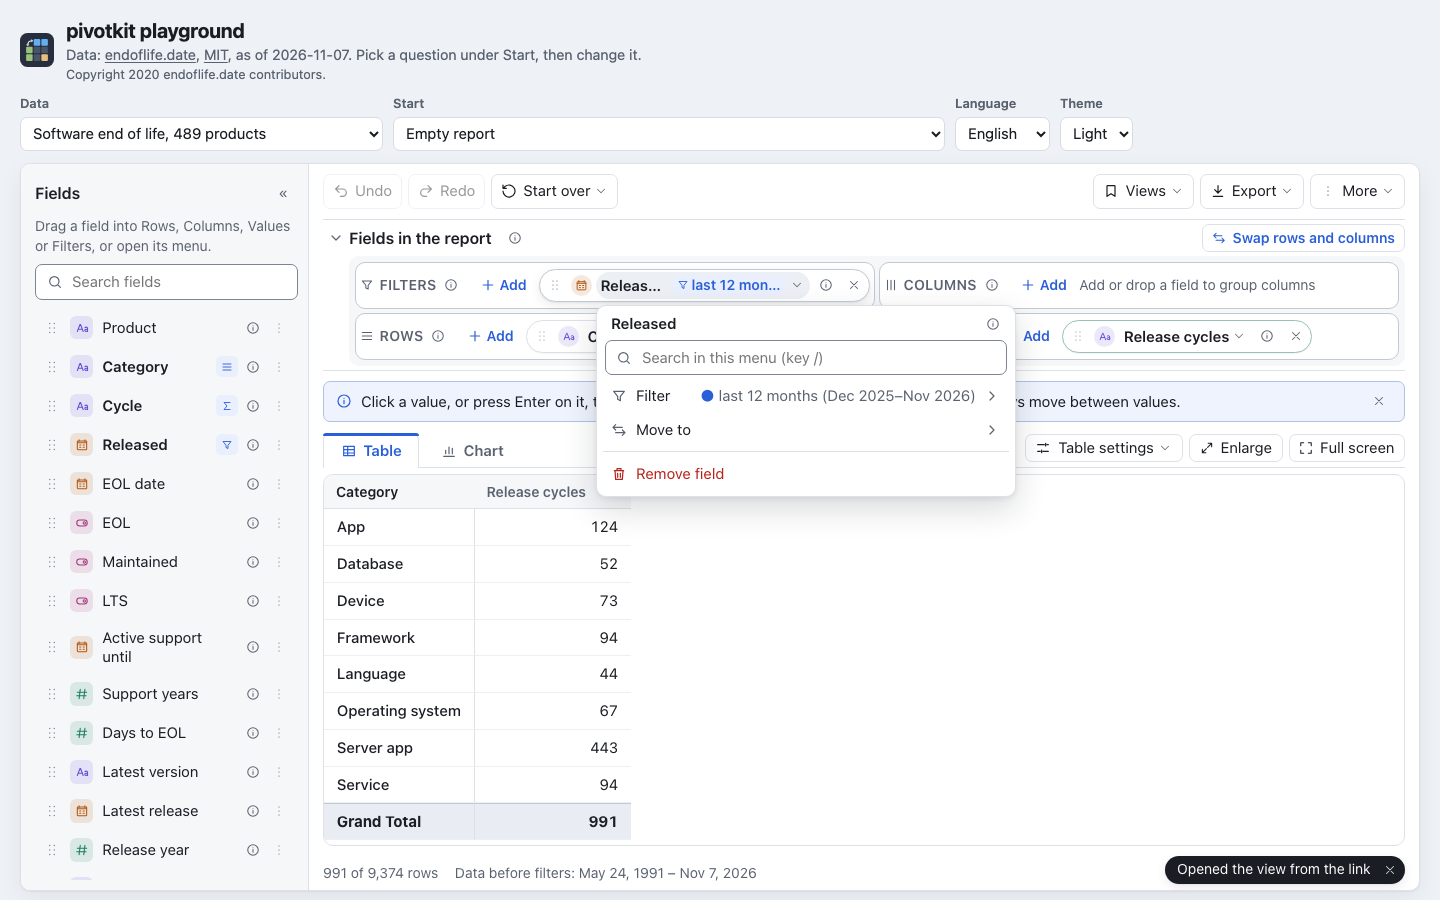
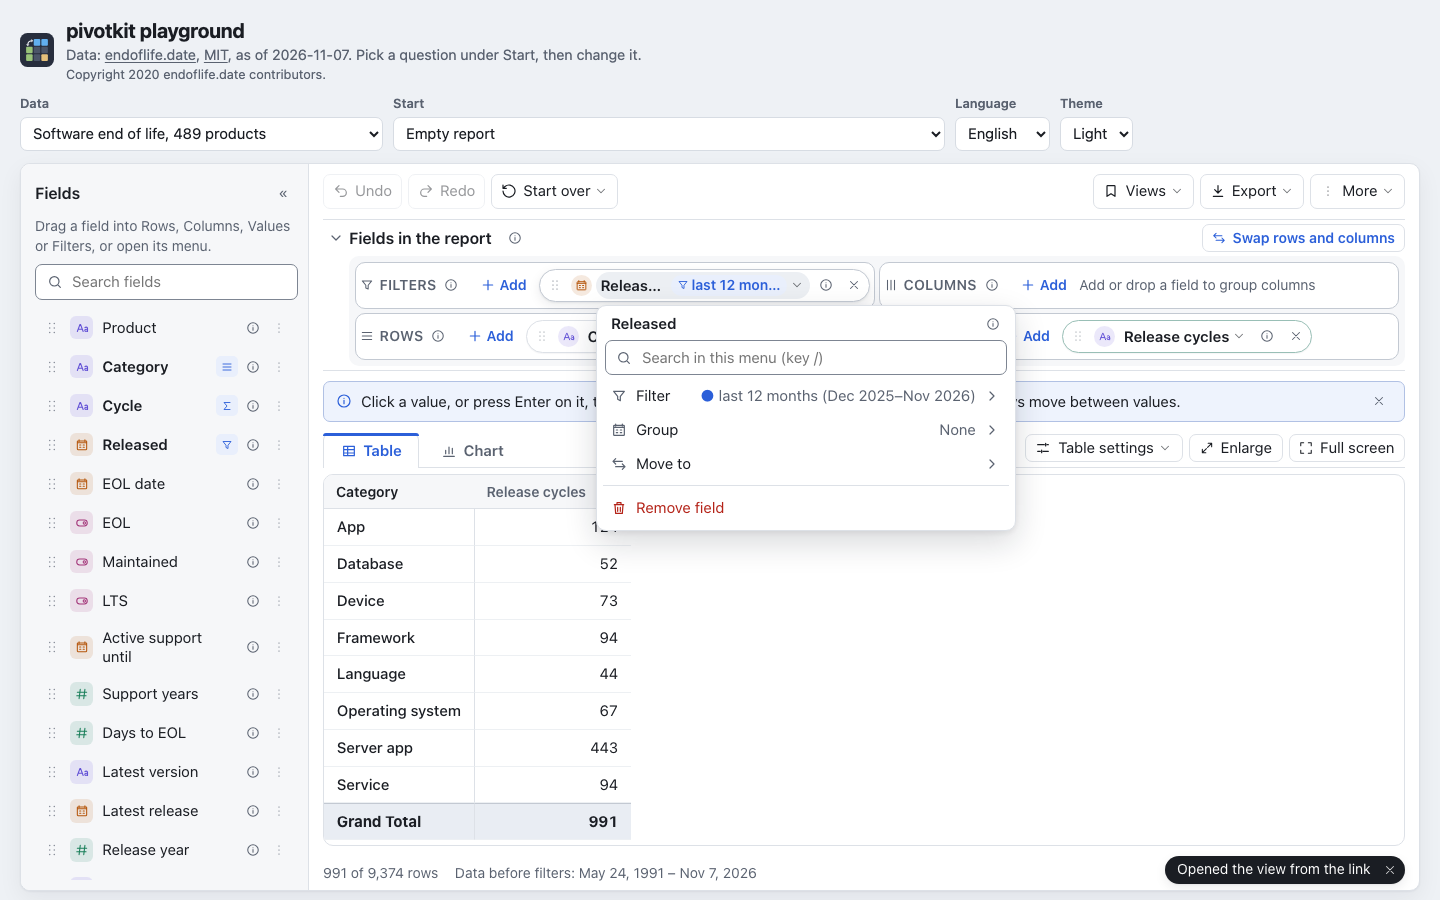
feat(react): a date in Filters can be grouped from its chip's menu
The Filters zone's chip menu of a date offers Group, the same topic as on Rows and Columns (one
groupTopic for both). A unit puts the grouping in the date's place among the Filters, with an
empty pick (groupField keeps the place). Docs: filters.md, the year steps in values.md, the
filter-zone screenshot.

Changed region(s): [[0.4062, 0.4667, 0.7188, 0.6222], [0.6562, 0.4667, 0.6875, 0.4978]]

diff --git a/packages/pivotkit-react/src/menu-topics.js b/packages/pivotkit-react/src/menu-topics.js
@@ -144,30 +144,7 @@ export function axisTopics({ view, zone, index, field, types, labels, locale, st
         filterTopic({ view, field, labels, locale, state, encoded })
     ];
     if (date) {
-        const stats = groupStats(encoded, source);
-        const span = stats?.span;
-        const dateLocale = dateDisplayLocale(view.formatting?.locale || locale);
-        const regroup = (unit) => () => {
-            const sourceName = fieldLabel(source, labels.core);
-            const grouped = unit ? groupingName(sourceName, unit, labels) : null;
-            return { view: groupField(view, field, unit, { name: grouped ?? undefined }).view, note: { step: "group", field: sourceName } };
-        };
-        // the field is replaced by its grouping (another chip): the menu closes
-        const unit = (u) => ({ id: `group-${u}`, text: labels.units[u] ?? u, hint: groupHint(encoded, source, u, dateLocale, labels, stats), checked: grouping?.by === u, closes: true, change: regroup(u) });
-        topics.push({
-            id: "group",
-            intro: span ? fill(plural(labels.groupDataRange, calendarDays(span), {lang: labels.lang, locale: dateLocale}), { range: dateRangeText(span, dateLocale) }) : undefined,
-            title: labels.groupTopic,
-            kind: "menu",
-            icon: "date",
-            state: grouping ? labels.units[grouping.by] ?? grouping.by : labels.groupNoneShort,
-            changed: Boolean(grouping),
-            groups: [
-                { title: labels.groupTimeline, choices: CATALOG.timelineUnits.map(unit) },
-                { title: labels.groupCyclic, choices: CATALOG.cyclicUnits.map(unit) },
-                { choices: [{ id: "group-none", text: labels.groupNone, checked: !grouping, closes: true, change: regroup(null) }] }
-            ]
-        });
+        topics.push(groupTopic({ view, field, source, labels, locale, encoded }));
     } else if (sourceType === "number") {
         const bins = grouping?.by === "bin" ? grouping : null;
         topics.push({ id: "bins", title: labels.bins, kind: "panel", icon: "number", state: bins ? fill(labels.binsState, { size: number(bins.size), start: number(bins.origin ?? 0) }) : labels.off, changed: Boolean(bins) });
@@ -264,13 +241,52 @@ export function filterTopic({ view, field, labels, locale, state, encoded }) {
 }
 
 /**
- * The topics of a field's menu in Filters (the whole report): Filter, Move to.
+ * The Group topic of a date: its units along the time line and over the years, each with what it
+ * makes of the data (groupHint), and None. A unit replaces the field with its grouping, in Rows,
+ * Columns or Filters, in the same place (another chip: the menu closes).
+ * @param {{ view: any, field: string, source: string, labels: any, locale: string, encoded?: any }} input
+ * @returns {Topic}
+ */
+function groupTopic({ view, field, source, labels, locale, encoded }) {
+    const grouping = groupingOf(view, field);
+    const stats = groupStats(encoded, source);
+    const span = stats?.span;
+    const dateLocale = dateDisplayLocale(view.formatting?.locale || locale);
+    const regroup = (unit) => () => {
+        const sourceName = fieldLabel(source, labels.core);
+        const grouped = unit ? groupingName(sourceName, unit, labels) : null;
+        return { view: groupField(view, field, unit, { name: grouped ?? undefined }).view, note: { step: "group", field: sourceName } };
+    };
+    const unit = (u) => ({ id: `group-${u}`, text: labels.units[u] ?? u, hint: groupHint(encoded, source, u, dateLocale, labels, stats), checked: grouping?.by === u, closes: true, change: regroup(u) });
+    return {
+        id: "group",
+        intro: span ? fill(plural(labels.groupDataRange, calendarDays(span), { lang: labels.lang, locale: dateLocale }), { range: dateRangeText(span, dateLocale) }) : undefined,
+        title: labels.groupTopic,
+        kind: "menu",
+        icon: "date",
+        state: grouping ? labels.units[grouping.by] ?? grouping.by : labels.groupNoneShort,
+        changed: Boolean(grouping),
+        groups: [
+            { title: labels.groupTimeline, choices: CATALOG.timelineUnits.map(unit) },
+            { title: labels.groupCyclic, choices: CATALOG.cyclicUnits.map(unit) },
+            { choices: [{ id: "group-none", text: labels.groupNone, checked: !grouping, closes: true, change: regroup(null) }] }
+        ]
+    };
+}
+
+/**
+ * The topics of a field's menu in Filters (the whole report): Filter, Group for a date, Move to.
  * @param {{ view: any, index: number, field: string, types: Map<string, string>, labels: any, locale: string, state?: any, encoded?: any }} input
  * @returns {Topic[]}
  */
 export function filterZoneTopics({ view, index, field, types, labels, locale, state, encoded }) {
-    const type = types.get(sourceOf(view, field).toLowerCase());
-    return [filterTopic({ view, field, labels, locale, state, encoded }), moveTopic(view, "filters", index, filterZoneFields(view).length, labels, fieldLabel(field, labels.core), type)];
+    const source = sourceOf(view, field);
+    const type = types.get(source.toLowerCase());
+    return [
+        filterTopic({ view, field, labels, locale, state, encoded }),
+        ...(type === "date" ? [groupTopic({ view, field, source, labels, locale, encoded })] : []),
+        moveTopic(view, "filters", index, filterZoneFields(view).length, labels, fieldLabel(field, labels.core), type)
+    ];
 }
 
 /**

diff --git a/packages/pivotkit-react/test/filter-rules.test.js b/packages/pivotkit-react/test/filter-rules.test.js
@@ -11,7 +11,7 @@ import { de as menuDe } from "../src/menu-labels-de.js";
 import { QUICK_UNITS, RULES_MAX, RULE_TYPES, filterState, keepsBlanks, rowsInRange, setRuleBlanks, setTopFilter, setLabelFilter, textOn, quickChoice, removeRules, resetFilter, ruleKind, ruleText, setAnchor, setItemFilter, setQuickRange, setRule, setYearsCombined, yearRules } from "../src/menu-ops.js";
 import { axisTopics, filterZoneTopics, searchEntries, searchHits } from "../src/menu-topics.js";
 import { compareText, itemRuleText, namedUntil, rangeShare, rangeText, relativeText } from "../src/names.js";
-import { addField, dateSpan, filtersOf, groupField } from "../src/view-ops.js";
+import { addField, dateSpan, filterZoneFields, filtersOf, groupField } from "../src/view-ops.js";
 
 const data = encode([
     { Region: "North", Units: 3, Price: 10, Released: "2019-05-01" },
@@ -315,13 +315,35 @@ test("search: quick choices with the count typed, a year compared, and the rules
     assert.equal(searchEntries(topics).some((e) => e.id.startsWith("quick-")), false);
 });
 
-test("the Filters zone's menu: Filter with its state, then Move to (no sort, grouping or Top items)", () => {
+test("the Filters zone's menu: Filter with its state, Group for a date, then Move to (no sort or Top items)", () => {
     const v = setQuickRange(addField(norm({}), "Released", "filters"), "Released", { unit: "year", count: 2 });
     const topics = filterZoneTopics({ view: v, index: 0, field: "Released", types, labels: MENU.en, locale: "en-US", state: { summary: null, rules: ["last 2 years"] }, encoded: data });
-    assert.deepEqual(topics.map((t) => t.id), ["filter", "move"]);
+    assert.deepEqual(topics.map((t) => t.id), ["filter", "group", "move"]);
     assert.equal(topics[0].state, "last 2 years");
     assert.equal(topics[0].changed, true);
-    assert.deepEqual(topics[1].groups[0].choices.map((c) => c.id), ["move-cols", "move-rows", "move-values"]);
+    assert.deepEqual(topics[2].groups[0].choices.map((c) => c.id), ["move-cols", "move-rows", "move-values"]);
+    // a text field in Filters: no Group
+    const text = filterZoneTopics({ view: addField(norm({}), "Region", "filters"), index: 0, field: "Region", types, labels: MENU.en, locale: "en-US", encoded: data });
+    assert.deepEqual(text.map((t) => t.id), ["filter", "move"]);
+});
+
+test("a date in Filters is grouped from its menu: the grouping takes its place among the Filters, its filter starts empty", () => {
+    let v = addField(addField(addField(norm({ rows: ["Region"] }), "Product", "filters"), "Released", "filters"), "Region", "filters");
+    v = setQuickRange(v, "Released", { unit: "year", count: 2 });
+    const at = (view) => filterZoneFields(view);
+    assert.deepEqual(at(v), ["Product", "Released", "Region"]);
+    const group = filterZoneTopics({ view: v, index: 1, field: "Released", types, labels: MENU.en, locale: "en-US", encoded: data }).find((t) => t.id === "group");
+    assert.equal(group.title, MENU.en.groupTopic);
+    assert.equal(group.state, MENU.en.groupNoneShort);
+    const year = group.groups.flatMap((g) => g.choices).find((c) => c.id === "group-year");
+    const { view: next, note } = year.change();
+    assert.deepEqual(at(next), ["Product", "Released by year", "Region"]);
+    assert.deepEqual(filtersOf(next, "Released", RULE_TYPES), []);
+    assert.equal(note.step, "group");
+    // grouped, its state says the unit, and None takes it back to the date
+    const again = filterZoneTopics({ view: next, index: 1, field: "Released by year", types, labels: MENU.en, locale: "en-US", encoded: data }).find((t) => t.id === "group");
+    assert.equal(again.state, MENU.en.units.year);
+    assert.deepEqual(at(again.groups.flatMap((g) => g.choices).find((c) => c.id === "group-none").change().view), ["Product", "Released", "Region"]);
 });
 
 test("a rule on the names says its words as the others do; counts of one have their own words (en, de)", () => {

diff --git a/tests/browser/filter-zone-group.spec.js b/tests/browser/filter-zone-group.spec.js
@@ -1,0 +1,31 @@
+// A date in the Filters zone is grouped from its chip's menu (#100): Group offers the units, a unit
+// puts the grouping in the date's place among the Filters, and its Filter level then lists those
+// units' items (years, months), English and German.
+import { encodeViewLink } from "pivotkit-core/link";
+import { chipMenu, expect, test } from "./fixtures.js";
+
+/** The sales data with Month and Product in Filters, Region in Rows. */
+const VIEW = { rows: ["Region"], filters: [{ field: "Product", type: "in", items: [], not: true }, { field: "Month", type: "in", items: [], not: true }], values: [{ field: "Revenue", agg: "sum" }] };
+const filterChips = (page) => page.locator('[data-zone="filters"] .pk-chip').evaluateAll((els) => els.map((e) => e.getAttribute("data-chip")));
+
+for (const [lang, t] of [
+    ["en", { group: "Group", year: "Year", grouped: "Month by year" }],
+    ["de", { group: "Gruppieren", year: "Jahr", grouped: "Month nach Jahr" }]
+]) {
+    test(`${lang}: a date in Filters is grouped from its menu and keeps its place`, async ({ page }) => {
+        await page.goto(`?data=sales&lang=${lang}&empty#pivot-playground=${encodeViewLink(VIEW)}`);
+        await expect(page.getByTestId("pivot-table")).toBeVisible();
+        expect(await filterChips(page)).toEqual(["Product", "Month"]);
+        await chipMenu(page, "Month");
+        const menu = page.locator(".pk-chip-menu");
+        await expect(menu.getByTestId("topic-group")).toContainText(t.group);
+        await menu.getByTestId("topic-group").click();
+        await menu.getByRole("menuitemradio", { name: new RegExp(`^${t.year}\\b`) }).click();
+        // the menu closes: the grouping is another chip, in the date's place
+        await expect(page.locator(".pk-chip-menu")).toHaveCount(0);
+        expect(await filterChips(page)).toEqual(["Product", t.grouped]);
+        // its Filter level lists the years
+        await chipMenu(page, t.grouped, "filter");
+        await expect(page.locator(".pk-chip-menu .pk-values")).toContainText("2025");
+    });
+}

diff --git a/packages/pivotkit-react/src/view-ops.js b/packages/pivotkit-react/src/view-ops.js
@@ -423,11 +423,13 @@ export function groupField(view, field, unit, options = {}) {
         }
     }
     if (!same(name, field)) {
-        // the old field's filters name values the new grouping does not have
+        // the old field's filters name values the new grouping does not have; in Filters the
+        // grouping takes the field's place, with an empty pick
         const inFilterZone = !axis && filterZoneFields(view).some((f) => same(f, field));
+        const place = next.filters.findIndex((f) => same(f.field, field));
         next.filters = next.filters.filter((f) => !same(f.field, field));
         if (inFilterZone) {
-            next.filters.push(emptyPick(name));
+            next.filters.splice(place, 0, emptyPick(name));
         }
     }
     next.sort = next.sort.map((s) => (same(s.field, field) ? { ...s, field: name } : s));

diff --git a/packages/pivotkit-react/src/chip-menus.jsx b/packages/pivotkit-react/src/chip-menus.jsx
@@ -361,7 +361,7 @@ export function AxisMenu({ view, zone, index, field, types, labels, commit, clos
     );
 }
 
-/** The menu of a chip in Filters (the whole report): the same Filter level, Move to. */
+/** The menu of a chip in Filters (the whole report): the same Filter level, Group for a date, Move to. */
 export function FilterMenu({ view, index, field, types, labels, commit, close, onRemove, locale, info, state, encoded }) {
     const name = fieldLabel(field, labels.core);
     return (

diff --git a/docs/use/filters.md b/docs/use/filters.md
@@ -85,10 +85,12 @@ Details:
 ![A filtered field's menu: the Filter row says 1 of 5 with its dot](../assets/screenshots/filter-state-light.png#only-light)
 ![A filtered field's menu: the Filter row says 1 of 5 with its dot](../assets/screenshots/filter-state-dark.png#only-dark)
 
-A chip in **Filters** opens the same Filter level from its menu, with **Move to** and **Remove field**:
+A chip in **Filters** opens the same Filter level from its menu, with **Move to** and **Remove field**.
+A date there also has **Group**: a unit such as **Year** puts the grouping in its place, with every
+item kept.
 
-![The menu of Released in Filters: the Filter row says last 12 months with its months, then Move to and Remove field](../assets/screenshots/filter-zone-light.png#only-light)
-![The menu of Released in Filters: the Filter row says last 12 months with its months, then Move to and Remove field](../assets/screenshots/filter-zone-dark.png#only-dark)
+![The menu of Released in Filters: the Filter row says last 12 months with its months, then Group, Move to and Remove field](../assets/screenshots/filter-zone-light.png#only-light)
+![The menu of Released in Filters: the Filter row says last 12 months with its months, then Group, Move to and Remove field](../assets/screenshots/filter-zone-dark.png#only-dark)
 
 ### The summary
 

diff --git a/docs/use/values.md b/docs/use/values.md
@@ -265,15 +265,14 @@ With one item per period, the years 0–99 and dates before year 1 keep their ow
 
     **The same period of one year only** (Quarter of year on Columns, 2025 only).
 
-    1. Put the date on **Rows**, for example next to City, and group it by **Year**.
-    2. Open that chip's menu › **Move to** › **Move to Filters**. The chip moves to Filters as "Date
-       by year", with its years.
+    1. Add the date to **Filters**: **+ Add** next to Filters, or **Add to Filters** in the field's
+       menu in the field list.
+    2. Open its chip's menu › **Group** › **Year**. The chip becomes "Date by year", in the same
+       place.
     3. Open it › **Filter** and keep only 2025: **Only** next to 2025.
 
-    A chip in Filters has no Group level. A date you add to Filters straight from the field list is
-    grouped by the span of its dates, as on an axis. For three years that is by quarter, and you
-    could tick the four quarters of 2025 there. To filter by year, group the date on Rows or Columns
-    first and then move it.
+    A date you add to Filters is grouped by the span of its dates, as on an axis. For three years
+    that is by quarter. **Group** in its menu changes that, as on Rows and Columns.
 
     **Which years does the data cover?**
 

diff --git a/packages/pivotkit-react/CHANGELOG.md b/packages/pivotkit-react/CHANGELOG.md
@@ -8,6 +8,9 @@ All notable changes to `pivotkit-react` are documented in this file. The format 
 
 ### Added
 
+- A date in Filters has **Group** in its chip's menu, as on Rows and Columns. A unit such as Year
+  puts the grouping in the date's place among the Filters, with every item kept
+  ([#100](https://github.com/eizedev/pivotkit/issues/100)).
 - Chart settings offers **Bars and lines** and **Treemap**. Bars and lines needs two fields in
   Values and says so. A treemap's labels take the token colour that reads on each tile
   ([chart types](https://pivotkit.eize.dev/use/charts/#chart-types), #518).

diff --git a/packages/pivotkit-element/CHANGELOG.md b/packages/pivotkit-element/CHANGELOG.md
@@ -8,6 +8,8 @@ All notable changes to `pivotkit-element` are documented in this file. The forma
 
 ### Added
 
+- A date in Filters can be grouped from its chip's menu. See pivotkit-react's changelog
+  ([#100](https://github.com/eizedev/pivotkit/issues/100)).
 - Bars and lines, and a treemap, from pivotkit-react. ECharts' treemap loads with the chart: the
   chart group's budget goes to 259.5 KiB. The first load does not grow
   ([chart types](https://pivotkit.eize.dev/use/charts/#chart-types), #518).
